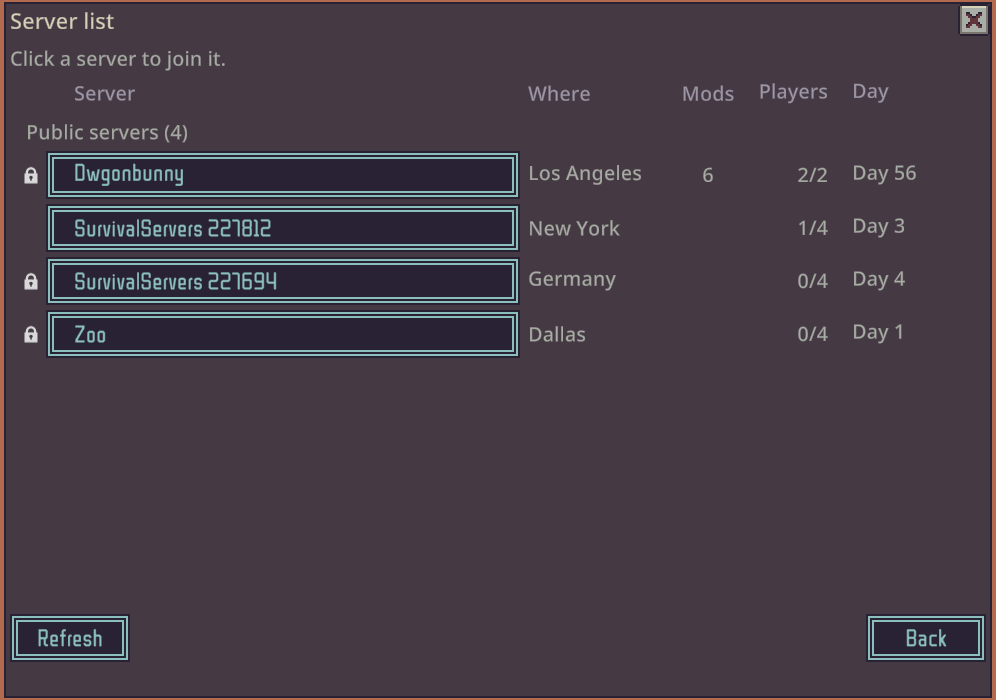
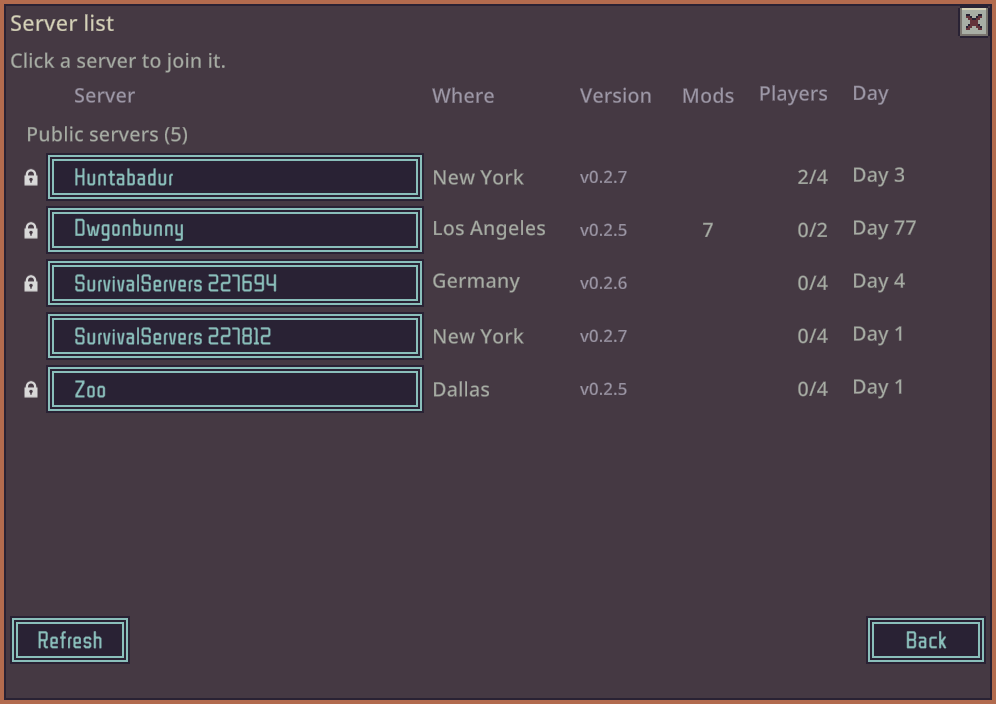
0.2.8: changelog, extraCustomersPerPlayer setting, Server list picture with the Version column

diff --git a/docs/settings.md b/docs/settings.md
@@ -16,6 +16,7 @@ The server reads the `server.json` named by `--br-config`. This example holds ev
   },
   "endless": false,
   "readyTimeoutSeconds": 120,
+  "extraCustomersPerPlayer": 0.5,
   "frameRate": 10,
   "voice": true,
   "modsMustMatch": false,
@@ -35,6 +36,7 @@ The server reads the `server.json` named by `--br-config`. This example holds ev
 | `newRun.skipIntro` | Skips the game's intro in a new run |
 | `endless` | The game's Endless mode, for a new run |
 | `readyTimeoutSeconds` | How long the server waits after the first player is ready before it starts the night, or after the first vote for a new run |
+| `extraCustomersPerPlayer` | Extra customers for each player beyond the first, as a share of the day's customers (0 to 2). With 0.5, 2 players and 6 customers queued get 3 more. At most 6 more a day, none on a new run's first day (or its first 13 with the intro on). 0 keeps the game's own number. Works only when every player runs 0.2.8 or newer |
 | `frameRate` | The server's frames per second (1 to 60) |
 | `voice` | Voice chat on this server; `false` turns it off for every player |
 | `modsMustMatch` | `true` also turns away players who run mods the server does not, or another copy of one of its mods; `false` lets them join with a warning |

diff --git a/CHANGELOG.md b/CHANGELOG.md
@@ -6,6 +6,28 @@ Each version is split into **Server** (AccompliceServer, the Accomplice mod runn
 
 ## [Unreleased]
 
+## [0.2.8] - 2026-11-06
+
+### Server
+
+#### Added
+
+- More players bring more customers: each player beyond the first adds half the day's customers again, at most 6 more a day, from day 2 of a new run (day 14 with the intro on). The new `extraCustomersPerPlayer` setting changes the share or turns it off. It works when every player runs 0.2.8 or newer; on a day with extra customers, an older player is asked to update.
+
+#### Changed
+
+- If the player at the counter does nothing for 30 seconds while another player wants it, the counter frees up (it was 60 seconds).
+
+### Client
+
+#### Added
+
+- The Server list shows which version each server runs.
+
+#### Fixed
+
+- Picking a backpack (or no backpack) at the shop door opens the map. Before, it reloaded the game, so nobody could go out at night.
+
 ## [0.2.7] - 2026-11-05
 
 ### Server
